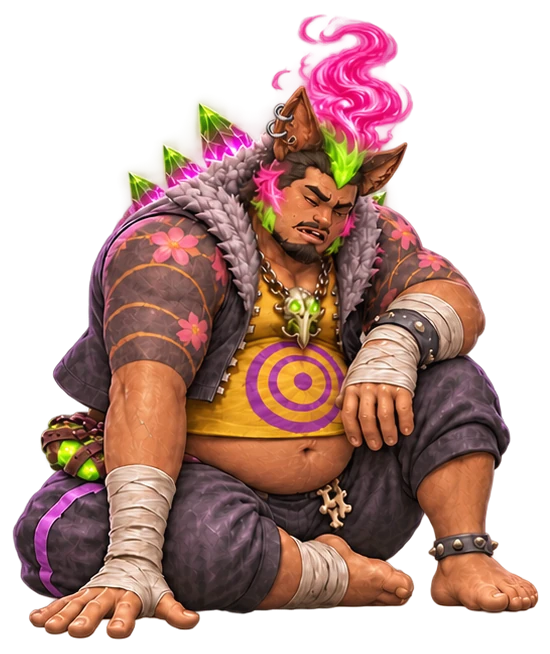
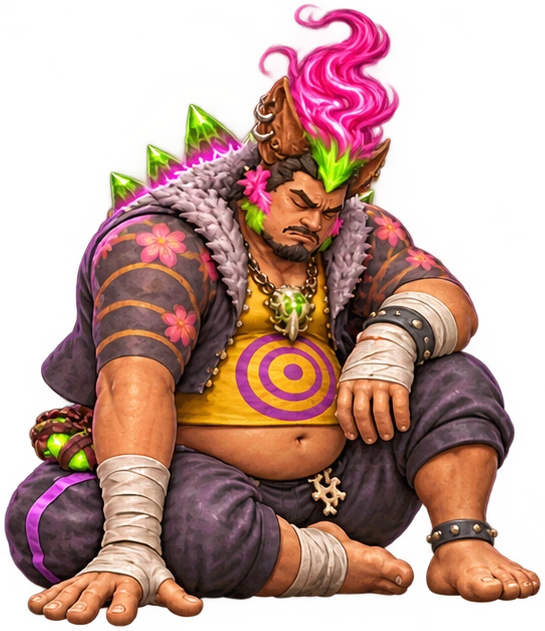
Refresh combat effects, sprites, and Lorette returns

diff --git a/combat-frame-sheet-manifest.js b/combat-frame-sheet-manifest.js
@@ -48,7 +48,7 @@ const lyndaPageFrames = {
   enabled: true,
   file: 'assets/effects/frame-sheets/academy-lynda-prism-pages-v1.webp',
   columns: 4, rows: 4, impactFrame: 9, fps: 24,
-  mode: 'projectile', layered: true, trajectory: 'direct', releaseFraction: .45,
+  mode: 'projectile', layered: true, replaceContact: true, trajectory: 'direct', releaseFraction: .35,
   aimAlongPath: true, hitOffset: .29, width: 254, height: 239,
   fade: true, edgeFeather: .09, blend: 'source-over',
 };
@@ -1370,8 +1370,8 @@ window.peppermintCombatFrameSheetManifest = {
     'ip-ride-the-wave:skill': {
       enabled: true, file: 'assets/effects/frame-sheets/ip-ride-the-wave-skill-v1.webp',
       columns: 4, rows: 4, frames: 16, impactFrame: 8, fps: 20,
-      mode: 'scene', anchor: 'target', width: 286, height: 228, layered: true,
-      fade: true, edgeFeather: .08, blend: 'screen',
+      mode: 'travel', trajectory: 'direct', faceTarget: true, width: 286, height: 228,
+      fade: true, edgeFeather: .09, blend: 'source-over',
     },
     'ip-no-pain-no-gain:skill': {
       enabled: true, file: 'assets/effects/frame-sheets/ip-no-pain-no-gain-skill-v1.webp',
@@ -1500,10 +1500,10 @@ window.peppermintCombatFrameSheetManifest = {
       hitOffset: .13, width: 264, height: 230, fade: true, edgeFeather: .08, blend: 'screen',
     },
     'ip-floatbite:strike': {
-      enabled: true, file: 'assets/effects/frame-sheets/ip-floatbite-tide-claw-strike-v1.webp',
-      columns: 4, rows: 4, frames: 16, impactFrame: 8, fps: 19,
-      mode: 'scene', anchor: 'target', layered: true, replaceContact: true,
-      hitOffset: .11, width: 264, height: 236, fade: true, edgeFeather: .08, blend: 'screen',
+      enabled: true, file: 'assets/effects/frame-sheets/ip-brody-fin-splash-v1.webp',
+      columns: 4, rows: 4, frames: 16, impactFrame: 8, fps: 20,
+      mode: 'scene', anchor: 'target', layered: true, replaceContact: true, hitOffset: .11, width: 264, height: 236,
+      fade: true, edgeFeather: .09, blend: 'source-over',
     },
     'ip-coyote-zodiac:strike': {
       enabled: true, file: 'assets/effects/frame-sheets/ip-coyote-zodiac-slime-claws-strike-v1.webp',
@@ -1512,10 +1512,10 @@ window.peppermintCombatFrameSheetManifest = {
       hitOffset: .12, width: 258, height: 232, fade: true, edgeFeather: .08, blend: 'screen',
     },
     'lt-scribble:strike': {
-      enabled: true, file: 'assets/effects/frame-sheets/lt-scribble-ribbon-ink-strike-v1.webp',
+      enabled: true, file: 'assets/effects/frame-sheets/lt-scribble-honey-wand-v1.webp',
       columns: 4, rows: 4, frames: 16, impactFrame: 8, fps: 20,
-      mode: 'projectile', trajectory: 'arc', anchor: 'target', aimAlongPath: true,
-      hitOffset: .12, width: 258, height: 230, fade: true, edgeFeather: .08, blend: 'screen',
+      mode: 'scene', fitPath: true, minWidth: 250, pathPadding: 145, height: 230, layered: true, replaceContact: true,
+      fade: true, edgeFeather: .09, blend: 'source-over',
     },
     'lt-boxy:strike': {
       enabled: true, file: 'assets/effects/frame-sheets/lt-boxy-spring-parcel-strike-v1.webp',
@@ -1620,10 +1620,10 @@ window.peppermintCombatFrameSheetManifest = {
       hitOffset: .12, width: 254, height: 230, fade: true, edgeFeather: .08, blend: 'screen',
     },
     'lt-beatcracker:strike': {
-      enabled: true, file: 'assets/effects/frame-sheets/lt-beatcracker-cymbal-clash-v1.webp',
-      columns: 4, rows: 4, frames: 16, impactFrame: 9, fps: 20,
-      mode: 'scene', anchor: 'target', layered: true, replaceContact: true,
-      hitOffset: .12, width: 250, height: 228, fade: true, edgeFeather: .08, blend: 'screen',
+      enabled: true, file: 'assets/effects/frame-sheets/lt-beatcracker-drumstick-punch-v1.webp',
+      columns: 4, rows: 4, frames: 16, impactFrame: 8, fps: 20,
+      mode: 'scene', anchor: 'target', width: 295, height: 232, layered: true, replaceContact: true, hitOffset: .12,
+      fade: true, edgeFeather: .09, blend: 'source-over',
     },
     'lt-beatcracker:skill': {
       enabled: true, file: 'assets/effects/frame-sheets/lt-beatcracker-spring-summon-v1.webp',
@@ -1716,88 +1716,76 @@ window.peppermintCombatFrameSheetManifest = {
       fade: true, edgeFeather: 0.09, blend: 'source-over',
     },
     'toy-store:skill': {
-      enabled: true, source: 'legacy-svg', file: 'assets/effects/frame-sheets/toy-store-gate-v1.webp',
-      columns: 5, rows: 4, frames: 20, impactFrame: 8, fps: 20,
-      mode: 'impact', anchor: 'target', width: 528, height: 378,
-      duration: 2630, scale: 1, pulse: false,
-      fade: false, edgeFeather: 0, blend: 'source-over',
+      enabled: true, file: 'assets/effects/frame-sheets/toy-store-painted-v2.webp',
+      columns: 4, rows: 4, frames: 16, impactFrame: 8, fps: 20,
+      mode: 'impact', anchor: 'target', width: 350, height: 302,
+      fade: true, edgeFeather: .09, blend: 'source-over',
     },
     'drinking-tea:skill': {
-      enabled: true, source: 'legacy-svg', file: 'assets/effects/frame-sheets/frosted-tea-cup-v1.webp',
-      columns: 5, rows: 4, frames: 20, impactFrame: 8, fps: 20,
-      mode: 'impact', anchor: 'target', width: 250, height: 396,
-      duration: 2590, scale: 1, pulse: false,
-      fade: false, edgeFeather: 0, blend: 'source-over',
+      enabled: true, file: 'assets/effects/frame-sheets/drinking-tea-painted-v2.webp',
+      columns: 4, rows: 4, frames: 16, impactFrame: 8, fps: 20,
+      mode: 'impact', anchor: 'target', width: 254, height: 234,
+      fade: true, edgeFeather: .09, blend: 'source-over',
     },
     'christmas-mall:skill': {
-      enabled: true, source: 'legacy-svg', file: 'assets/effects/frame-sheets/christmas-mall-gate-v1.webp',
-      columns: 5, rows: 4, frames: 20, impactFrame: 8, fps: 20,
-      mode: 'impact', anchor: 'target', width: 528, height: 378,
-      duration: 2630, scale: 1, pulse: false,
-      fade: false, edgeFeather: 0, blend: 'source-over',
+      enabled: true, file: 'assets/effects/frame-sheets/christmas-mall-painted-v2.webp',
+      columns: 4, rows: 4, frames: 16, impactFrame: 8, fps: 20,
+      mode: 'impact', anchor: 'target', width: 350, height: 302,
+      fade: true, edgeFeather: .09, blend: 'source-over',
     },
     'wb-wedding-proposal:skill': {
-      enabled: true, source: 'legacy-svg', file: 'assets/effects/frame-sheets/wedding-ring-duet-v1.webp',
-      columns: 5, rows: 4, frames: 20, impactFrame: 8, fps: 20,
-      mode: 'impact', anchor: 'target', width: 198, height: 204,
-      duration: 2315, scale: 1, pulse: false,
-      fade: false, edgeFeather: 0, blend: 'source-over',
+      enabled: true, file: 'assets/effects/frame-sheets/wb-wedding-proposal-painted-v2.webp',
+      columns: 4, rows: 4, frames: 16, impactFrame: 8, fps: 20,
+      mode: 'impact', anchor: 'target', width: 254, height: 234,
+      fade: true, edgeFeather: .09, blend: 'source-over',
     },
     'wb-shopping:skill': {
-      enabled: true, source: 'legacy-svg', file: 'assets/effects/frame-sheets/winter-shopping-parcels-v1.webp',
-      columns: 5, rows: 4, frames: 20, impactFrame: 8, fps: 20,
-      mode: 'impact', anchor: 'source', width: 278, height: 290,
-      duration: 2315, scale: 1, pulse: false,
-      fade: false, edgeFeather: 0, blend: 'source-over',
+      enabled: true, file: 'assets/effects/frame-sheets/wb-shopping-painted-v2.webp',
+      columns: 4, rows: 4, frames: 16, impactFrame: 8, fps: 20,
+      mode: 'impact', anchor: 'source', width: 254, height: 234,
+      fade: true, edgeFeather: .09, blend: 'source-over',
     },
     'valhalla-bar:skill': {
-      enabled: true, source: 'legacy-svg', file: 'assets/effects/frame-sheets/valhalla-mead-hall-v1.webp',
-      columns: 5, rows: 4, frames: 20, impactFrame: 8, fps: 20,
-      mode: 'impact', anchor: 'target', width: 538, height: 388,
-      duration: 2480, scale: 1, pulse: false,
-      fade: false, edgeFeather: 0, blend: 'source-over',
+      enabled: true, file: 'assets/effects/frame-sheets/valhalla-bar-painted-v2.webp',
+      columns: 4, rows: 4, frames: 16, impactFrame: 8, fps: 20,
+      mode: 'impact', anchor: 'target', width: 350, height: 302,
+      fade: true, edgeFeather: .09, blend: 'source-over',
     },
     'golden-egg-flatbread:skill': {
-      enabled: true, source: 'legacy-svg', file: 'assets/effects/frame-sheets/golden-egg-flatbread-v1.webp',
-      columns: 5, rows: 4, frames: 20, impactFrame: 8, fps: 20,
-      mode: 'impact', anchor: 'target', width: 250, height: 254,
-      duration: 2500, scale: 1, pulse: false,
-      fade: false, edgeFeather: 0, blend: 'source-over',
+      enabled: true, file: 'assets/effects/frame-sheets/golden-egg-flatbread-painted-v2.webp',
+      columns: 4, rows: 4, frames: 16, impactFrame: 8, fps: 20,
+      mode: 'impact', anchor: 'target', width: 254, height: 234,
+      fade: true, edgeFeather: .09, blend: 'source-over',
     },
     'training:skill': {
-      enabled: true, source: 'legacy-svg', file: 'assets/effects/frame-sheets/training-target-v1.webp',
-      columns: 5, rows: 4, frames: 20, impactFrame: 8, fps: 20,
-      mode: 'impact', anchor: 'target', width: 174, height: 248,
-      duration: 2315, scale: 1, pulse: false,
-      fade: false, edgeFeather: 0, blend: 'source-over',
+      enabled: true, file: 'assets/effects/frame-sheets/training-painted-v2.webp',
+      columns: 4, rows: 4, frames: 16, impactFrame: 8, fps: 20,
+      mode: 'impact', anchor: 'target', width: 254, height: 234,
+      fade: true, edgeFeather: .09, blend: 'source-over',
     },
     'ww-zodiac-guardian-brian:skill': {
-      enabled: true, source: 'legacy-svg', file: 'assets/effects/frame-sheets/zodiac-brian-terra-aura-v1.webp',
-      columns: 5, rows: 4, frames: 20, impactFrame: 8, fps: 20,
-      mode: 'impact', anchor: 'source', width: 430, height: 544,
-      duration: 2485, scale: 0.851063829787234, pulse: false,
-      fade: false, edgeFeather: 0, blend: 'source-over',
+      enabled: true, file: 'assets/effects/frame-sheets/ww-zodiac-guardian-brian-painted-v2.webp',
+      columns: 4, rows: 4, frames: 16, impactFrame: 8, fps: 20,
+      mode: 'impact', anchor: 'source', width: 254, height: 234,
+      fade: true, edgeFeather: .09, blend: 'source-over',
     },
     'ww-hopkin:skill': {
-      enabled: true, source: 'legacy-svg', file: 'assets/effects/frame-sheets/hopkin-sprout-intercept-v1.webp',
-      columns: 5, rows: 4, frames: 20, impactFrame: 8, fps: 20,
-      mode: 'impact', anchor: 'source', width: 246, height: 278,
-      duration: 2349, scale: 0.9661835748792271, pulse: false,
-      fade: false, edgeFeather: 0, blend: 'source-over',
+      enabled: true, file: 'assets/effects/frame-sheets/ww-hopkin-painted-v2.webp',
+      columns: 4, rows: 4, frames: 16, impactFrame: 8, fps: 20,
+      mode: 'impact', anchor: 'source', width: 254, height: 234,
+      fade: true, edgeFeather: .09, blend: 'source-over',
     },
     'ww-littlebeak:skill': {
-      enabled: true, source: 'legacy-svg', file: 'assets/effects/frame-sheets/littlebeak-feather-guard-v1.webp',
-      columns: 5, rows: 4, frames: 20, impactFrame: 8, fps: 20,
-      mode: 'impact', anchor: 'source', width: 244, height: 294,
-      duration: 2349, scale: 0.9661835748792271, pulse: false,
-      fade: false, edgeFeather: 0, blend: 'source-over',
+      enabled: true, file: 'assets/effects/frame-sheets/ww-littlebeak-painted-v2.webp',
+      columns: 4, rows: 4, frames: 16, impactFrame: 8, fps: 20,
+      mode: 'impact', anchor: 'source', width: 254, height: 234,
+      fade: true, edgeFeather: .09, blend: 'source-over',
     },
     'ip-floatbite:skill': {
-      enabled: true, source: 'legacy-svg', file: 'assets/effects/frame-sheets/floatbite-tidal-guard-v1.webp',
-      columns: 5, rows: 4, frames: 20, impactFrame: 8, fps: 20,
-      mode: 'impact', anchor: 'target', width: 246, height: 302,
-      duration: 2349, scale: 0.9661835748792271, pulse: false,
-      fade: false, edgeFeather: 0, blend: 'source-over',
+      enabled: true, file: 'assets/effects/frame-sheets/ip-brody-fin-surge-skill-v1.webp',
+      columns: 4, rows: 4, frames: 16, impactFrame: 8, fps: 20,
+      mode: 'impact', anchor: 'target', width: 245, height: 205,
+      fade: true, edgeFeather: .09, blend: 'source-over',
     },
     'ip-coyote-zodiac:skill': {
       enabled: true, source: 'legacy-svg', file: 'assets/effects/frame-sheets/zodiac-coyote-slime-orbit-v1.webp',
@@ -1835,11 +1823,10 @@ window.peppermintCombatFrameSheetManifest = {
       fade: false, edgeFeather: 0, blend: 'source-over',
     },
     'valhalla-axir:skill': {
-      enabled: true, source: 'legacy-svg', file: 'assets/effects/frame-sheets/axir-twin-axe-orbit-v1.webp',
-      columns: 5, rows: 4, frames: 20, impactFrame: 8, fps: 20,
-      mode: 'impact', anchor: 'source', width: 362, height: 216,
-      duration: 2349, scale: 0.9661835748792271, pulse: false,
-      fade: false, edgeFeather: 0, blend: 'source-over',
+      enabled: true, file: 'assets/effects/frame-sheets/valhalla-axir-painted-v2.webp',
+      columns: 4, rows: 4, frames: 16, impactFrame: 8, fps: 20,
+      mode: 'impact', anchor: 'source', width: 254, height: 234,
+      fade: true, edgeFeather: .09, blend: 'source-over',
     },
     'valhalla-khendal:skill': {
       enabled: true, source: 'legacy-svg', file: 'assets/effects/frame-sheets/khendal-thunder-horns-v1.webp',
@@ -1891,11 +1878,10 @@ window.peppermintCombatFrameSheetManifest = {
       fade: false, edgeFeather: 0, blend: 'source-over',
     },
     'ts-elyza:skill': {
-      enabled: true, source: 'legacy-svg', file: 'assets/effects/frame-sheets/elyza-voodoo-scry-v1.webp',
-      columns: 5, rows: 4, frames: 20, impactFrame: 8, fps: 20,
-      mode: 'impact', anchor: 'source', width: 324, height: 374,
-      duration: 2417, scale: 0.9049773755656109, pulse: false,
-      fade: false, edgeFeather: 0, blend: 'source-over',
+      enabled: true, file: 'assets/effects/frame-sheets/ts-elyza-painted-v2.webp',
+      columns: 4, rows: 4, frames: 16, impactFrame: 8, fps: 20,
+      mode: 'impact', anchor: 'source', width: 254, height: 234,
+      fade: true, edgeFeather: .09, blend: 'source-over',
     },
     'academy-grounds:skill': {
       enabled: true, file: 'assets/effects/frame-sheets/academy-cotton-hall-gate-v1.webp',

diff --git a/game.js b/game.js
@@ -189,7 +189,7 @@ const toxicSewerLibrary = [
   { id: 'ts-ryuu', title: 'Toxic Sewer', name: 'Ryuu', cost: 4, attack: 4, element: 'Aer', role: 'Healer', type: 'Fighter', maxCopies: 1, deckCopies: 1, art: 'assets/cards/ToxicSewerRyuu.webp?v=20261127-ryuu-aer', webpCrops: true, ability: 'On summon, poison one of the rival’s three side Life Cards.' },
   { id: 'ts-aemi', title: 'Toxic Sewer', name: 'Aemi', cost: 3, attack: 3, element: 'Ignis', role: 'Shooter', type: 'Fighter', maxCopies: 1, deckCopies: 1, art: 'assets/cards/ToxicSewerAemi.webp?v=20261127-aemi-details', webpCrops: true, ability: 'Gains +1 attack for each Voodoo Witch or Ryuu on the field or in either Pandemonium Zone.' },
   { id: 'ts-elyza', title: 'Voodoo Witch', name: 'Maman Elyza', cost: 3, attack: 3, element: 'Dark', role: 'Healer', type: 'Fighter', maxCopies: 1, deckCopies: 1, art: 'assets/cards/VoodooWitchMamanElyza.webp', webpCrops: true, ability: 'On summon, draw an Aemi or Ryuu card.' },
-  { id: 'ts-lorette', title: 'Voodoo Witch', name: 'Lorette', cost: 3, attack: 3, element: 'Dark', role: 'Enchanter', type: 'Fighter', maxCopies: 1, deckCopies: 1, art: 'assets/cards/VoodooWitchLorette.webp', webpCrops: true, ability: 'When destroyed, draw a Maman Elyza card from your deck, then return Lorette to your hand.' },
+  { id: 'ts-lorette', title: 'Voodoo Witch', name: 'Lorette', cost: 3, attack: 3, element: 'Dark', role: 'Enchanter', type: 'Fighter', maxCopies: 1, deckCopies: 1, art: 'assets/cards/VoodooWitchLorette.webp', webpCrops: true, ability: 'When destroyed, draw a Maman Elyza card from your deck, then return Lorette to your hand. Whenever she returns from the field to your hand, her Mana cost increases by 1.' },
   { id: 'ts-poison', title: 'General', name: 'Poison', cost: 2, attack: 0, element: 'Dark', role: 'Action', type: 'Action', maxCopies: 3, deckCopies: 3, art: 'assets/cards/Poison.webp', webpCrops: true, ability: 'Poison a Battle Card. It is destroyed at the start of its owner’s second turn after being poisoned.' },
   { id: 'ts-shady-potion', title: 'General', name: 'Shady Potion', cost: 2, attack: 0, element: 'Dark', role: 'Action', type: 'Action', maxCopies: 3, deckCopies: 3, art: 'assets/cards/ShadyPotion.webp', webpCrops: true, ability: 'Summon a card from your Pandemonium Zone into an empty Battle Zone and poison it.' },
   { ...cardLibrary.find((card) => card.id === 'aemi'), deckCopies: 1 },
@@ -1884,12 +1884,16 @@ function animateLifeShatter(owner, laneIndex, main = false) {
   const selector = main ? `#${side}-life .main-life-back .life-card` : `#${side}-life .life-middle .life-card:nth-child(${laneIndex + 1})`;
   return animateShatter(document.querySelector(selector), 'Solar', 'life-shatter-overlay');
 }
+function sendFieldCardToHand(owner, card) {
+  if (card.id === 'ts-lorette') card.cost += 1;
+  owner.hand.push(card);
+}
 function returnFighterToHand(owner, laneIndex) {
   const target = owner.lanes[laneIndex];
   if (!target) return;
   if (isEffectProtected(target)) { showCombatCue(target, owner, laneIndex); announceEffect('Academy Rick is protected from card effects.'); return null; }
   delete target.poisonTurns;
-  owner.lanes[laneIndex] = null; owner.hand.push(target);
+  owner.lanes[laneIndex] = null; sendFieldCardToHand(owner, target);
   const familiarIndex = owner.life.familiars?.findIndex((familiar) => familiar?.attachedTo === target.instance) ?? -1;
   if (familiarIndex >= 0) { const familiar = owner.life.familiars[familiarIndex]; owner.life.familiars[familiarIndex] = null; owner.destroyed.push(familiar); announceEffect(`${target.name}’s Familiar was destroyed with its owner.`); }
   if (target.id === 'ip-natsuki') [match.player, match.opponent].forEach((side) => side.lanes.forEach((unit) => { if (unit?.protectedBy === target.instance) delete unit.protectedBy; }));
@@ -1917,9 +1921,9 @@ function destroyUnit(owner, laneIndex, inBattle = false, destroyedBy = null) {
   if (familiarIndex >= 0) { owner.destroyed.push(owner.life.familiars[familiarIndex]); owner.life.familiars[familiarIndex] = null; announceEffect(`${card.name}’s Familiar was destroyed with its owner.`); }
   if (card.id === 'ts-lorette') {
     drawMatching(owner, (unit) => unit.id === 'ts-elyza', 'Maman Elyza');
-    owner.hand.push(card);
+    sendFieldCardToHand(owner, card);
     showCombatCue(card, owner, laneIndex);
-    announceEffect('Lorette returned to your hand.');
+    announceEffect('Lorette returned to hand and now costs ' + card.cost + ' Mana.');
   }
   else if (zombyReturns) { card.cost += 1; owner.hand.push(card); showCombatCue(card, owner, laneIndex); announceEffect(`Zomby returned to its owner’s hand and its cost increased to ${card.cost} Mana.`); }
   else if (galactaSaves) { owner.hand.push(card); const sourceLane = owner.lanes.findIndex((unit) => unit?.id === 'ww-galacta'); showCombatCue(owner.lanes[sourceLane], owner, sourceLane, [combatLane(owner, laneIndex)]); announceEffect(`${card.name} returned to your hand through GaLacta.`); }
@@ -2955,6 +2959,7 @@ const poseArtVersion = (id, fallback) => ['ts-aemi', 'ts-zodiac-aemi'].includes(
   ? '20261127-elyza-clean'
   : aemiArtworkIds.has(id)
   ? '20261127-aemi-details'
+  : ['ts-momozan', 'ts-lorette'].includes(id) ? '20261127-clean-sprites'
   : ['ts-zenon', 'ts-momozan'].includes(id)
   ? '20261127-pose-details'
   : isSewerAvatar(id) ? 'toxic-sewer-v2' : fallback;
@@ -3454,11 +3459,11 @@ document.querySelectorAll('[data-battle-mode]').forEach((button) => button.addEv
 const versusStanceFrames = new Map([
   ['academy-ryuu', [1.0381, -.019, 1.7]],
   ['ts-zenon', [1.0436, -.0218, 1.7]],
-  ['ts-momozan', [1.0434, -.0217, 1.7]],
+  ['ts-momozan', [1, 0, 1.7]],
   ['ts-ryuu', [1.0364, -.0182, 1.7]],
   ['ts-aemi', [1.0451, -.0225, 1.7]],
   ['ts-elyza', [1.0377, -.0189, 1.7]],
-  ['ts-lorette', [1.0382, -.0191, 1.7]],
+  ['ts-lorette', [1, 0, 1.7]],
   ['ts-zodiac-aemi', [1.0427, -.0213, 1.7]],
   ['ts-zodiac-ryuu', [1.0374, -.0187, 1.7]],
   ['academy-coyote', [1.0302, -0.0181, 9.7005]],

diff --git a/index.html b/index.html
@@ -137,13 +137,13 @@
       <dialog id="card-review-dialog" class="card-review-dialog" aria-labelledby="card-review-name"><button id="card-review-close" class="close-dialog" type="button" aria-label="Close card details">×</button><div class="card-review-content"><img id="card-review-art" alt=""/><div class="card-review-copy"><span id="card-review-kicker" class="eyebrow"></span><h2 id="card-review-name"></h2><p id="card-review-type"></p><div class="card-review-stats"><span id="card-review-attack"></span><span id="card-review-mana"></span></div><section><h3>CARD EFFECT</h3><p id="card-review-ability"></p></section><section id="card-review-class-section"><h3 id="card-review-class-title"></h3><p id="card-review-class-ability"></p></section></div></div></dialog>  <script src="combat-recipes.js?v=20261126-toxic-sewer"></script>
   <script src="combat-projectiles.js?v=1"></script>
   <script src="combat-art.js?v=8"></script>
-  <script src="combat-direction.js?v=20261126-toxic-sewer"></script>
+  <script src="combat-direction.js?v=20261127-honey-pages-sprites"></script>
   <script src="combat-scenes.js?v=11"></script>
-  <script src="combat-sound.js?v=20261127-sampled-sfx-batch-2"></script>
-  <script src="combat-frame-sheet-manifest.js?v=20261127-vfx-full-coverage"></script>
+  <script src="combat-sound.js?v=20261127-honey-pages-sprites"></script>
+  <script src="combat-frame-sheet-manifest.js?v=20261127-honey-pages-sprites"></script>
   <script src="combat-frame-sheets.js?v=9"></script>
-  <script src="combat-effects.js?v=20261127-sampled-sfx-batch-2"></script>
-  <script src="game.js?v=20261127-spider-elyza-zenon-fix"></script>
+  <script src="combat-effects.js?v=20261127-honey-pages-sprites"></script>
+  <script src="game.js?v=20261127-honey-pages-sprites"></script>
   <script src="auth-config.js?v=20261121-auth-start"></script>
   <script src="https://cdn.jsdelivr.net/npm/@supabase/supabase-js@2"></script>
   <script src="auth.js?v=20261125-account-decks"></script>

diff --git a/combat-effects.js b/combat-effects.js
@@ -97,8 +97,11 @@
       });
     }
     const fist = melee && card.role === 'Brawler' ? scenes.fistStyles[card.id] : null;
+    const laneShift = kind === 'skill' && card.id === 'ip-ride-the-wave' && targetFrames.length === 2;
+    const rasterOrigin = laneShift ? targetFrames[reduced ? 1 : 0].box : origin;
+    const rasterTargets = laneShift ? [targetFrames[1].box] : destinations.map(({box}) => box);
     const rasterDuration = window.peppermintCombatFrameSheets?.play({
-      card, kind, origin, targets:destinations.map(({box}) => box), impactAt, baseAttack,
+      card, kind, origin:rasterOrigin, targets:rasterTargets, impactAt, baseAttack,
       viewport:{w:window.innerWidth,h:window.innerHeight},
     });
     if (rasterDuration) {

diff --git a/combat-direction.js b/combat-direction.js
@@ -85,7 +85,7 @@ ip-chase-zodiac buoyThrow/zodiacSplash/lifebuoy buoyThrow/zodiacSplash/lifebuoy
 ip-ride-the-wave - surf/tide/splash
 ip-no-pain-no-gain - forge/bolts/metal
 ip-swim-dont-sink - armor/drops/water
-lt-scribble ribbon/sugar/paper pages/folds/paper
+lt-scribble ribbon/sugar/syrup pages/folds/paper
 lt-clary swing/threads/steel stitch/feathers/fabric
 lt-fritz score/threads/flute chains/mask/chain
 lt-rat-king chains/gashes/chain curtain/plates/shadow

diff --git a/combat-sound.js b/combat-sound.js
@@ -6,7 +6,6 @@
     'ip-floatbite': 'combat-wet-splash.ogg',
     'ip-zodiac-aqua-kentaur': 'combat-wet-splash.ogg',
     'ip-coyote-zodiac': 'combat-goo-splatter.ogg',
-    'lt-scribble': 'combat-fabric-slash.ogg',
     'lt-boxy': 'combat-toy-spring.ogg',
   };
   const samplePlayers = new WeakMap();
